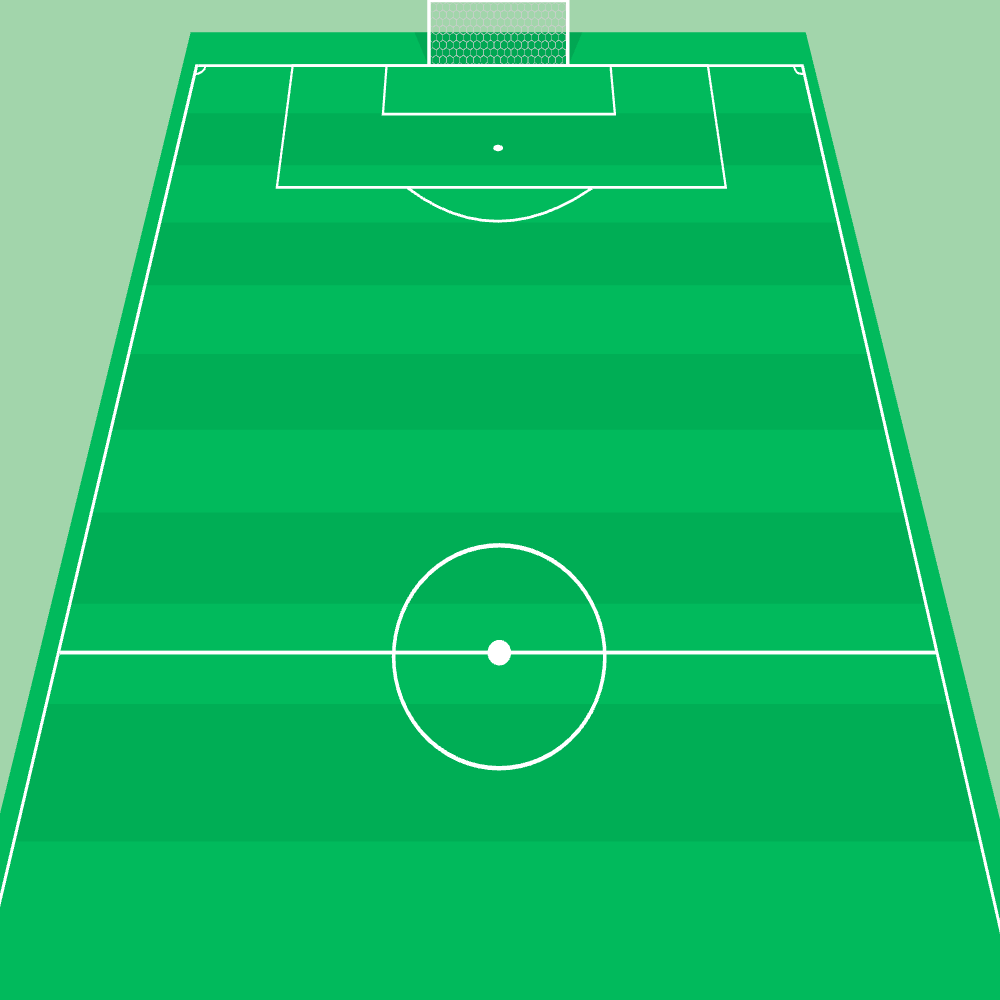
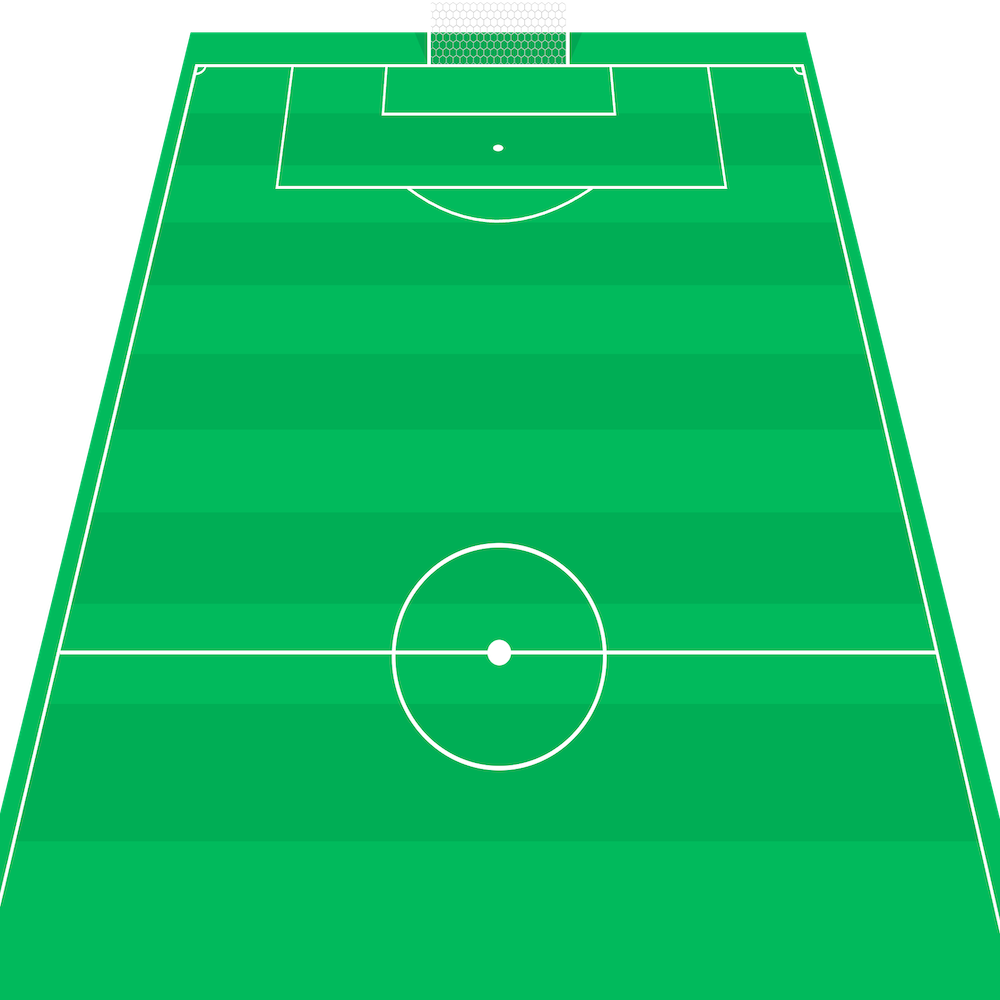
Add new background color

diff --git a/src/screens/Team/Team.styles.ts b/src/screens/Team/Team.styles.ts
@@ -27,7 +27,7 @@ interface Props {
 export default StyleSheet.create<Props>({
   container: {
     flex: 1,
-    backgroundColor: colors.accentLight,
+    backgroundColor: colors.background,
   },
   upperContainer: {},
   teamNameLabel: {

diff --git a/src/components/common/PopupMenu/PopupMenu.styles.ts b/src/components/common/PopupMenu/PopupMenu.styles.ts
@@ -28,7 +28,6 @@ export default StyleSheet.create<Style>({
   dropdownContainer: {
     position: 'absolute',
     right: 0,
-    top: 24,
     height,
     width: width - 30,
   },

diff --git a/src/constants/colors.ts b/src/constants/colors.ts
@@ -20,4 +20,5 @@ export const colors = {
   redAlertLight: 'rgb(253, 53, 63)',
   transparent: 'transparent',
   highlight: '#71C180',
+  background: '#d9d9d9',
 };
